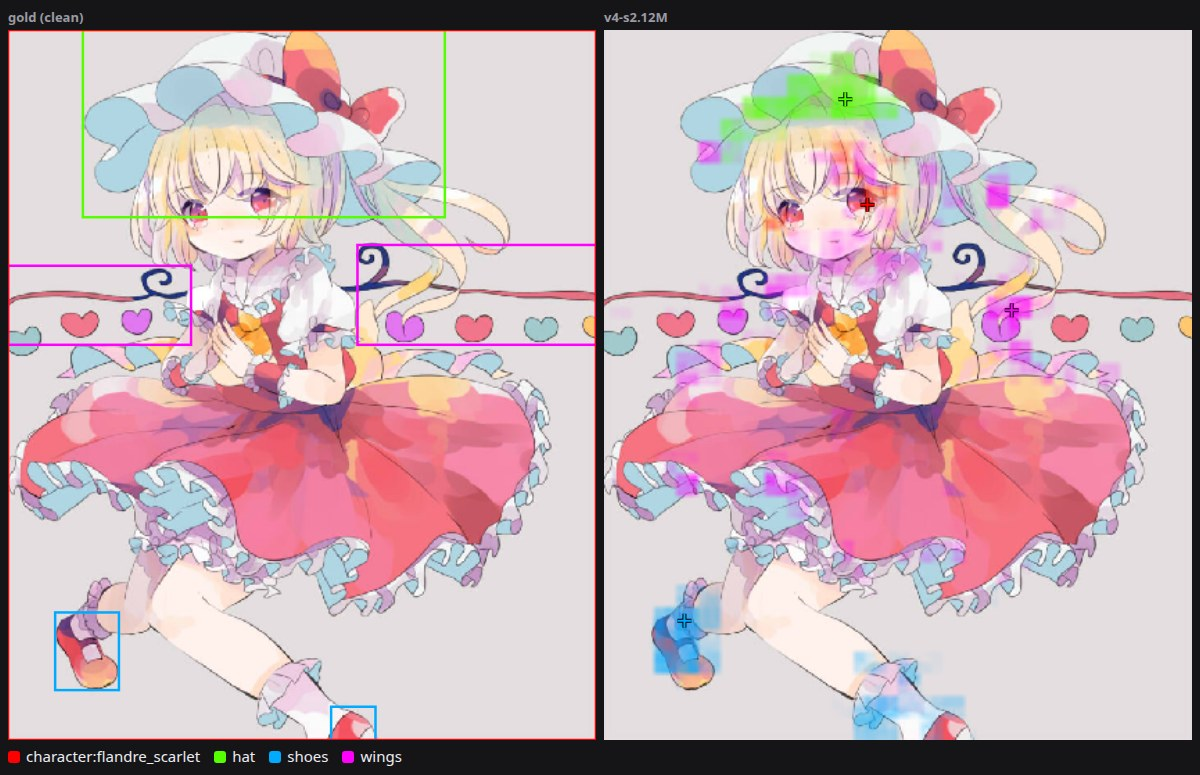
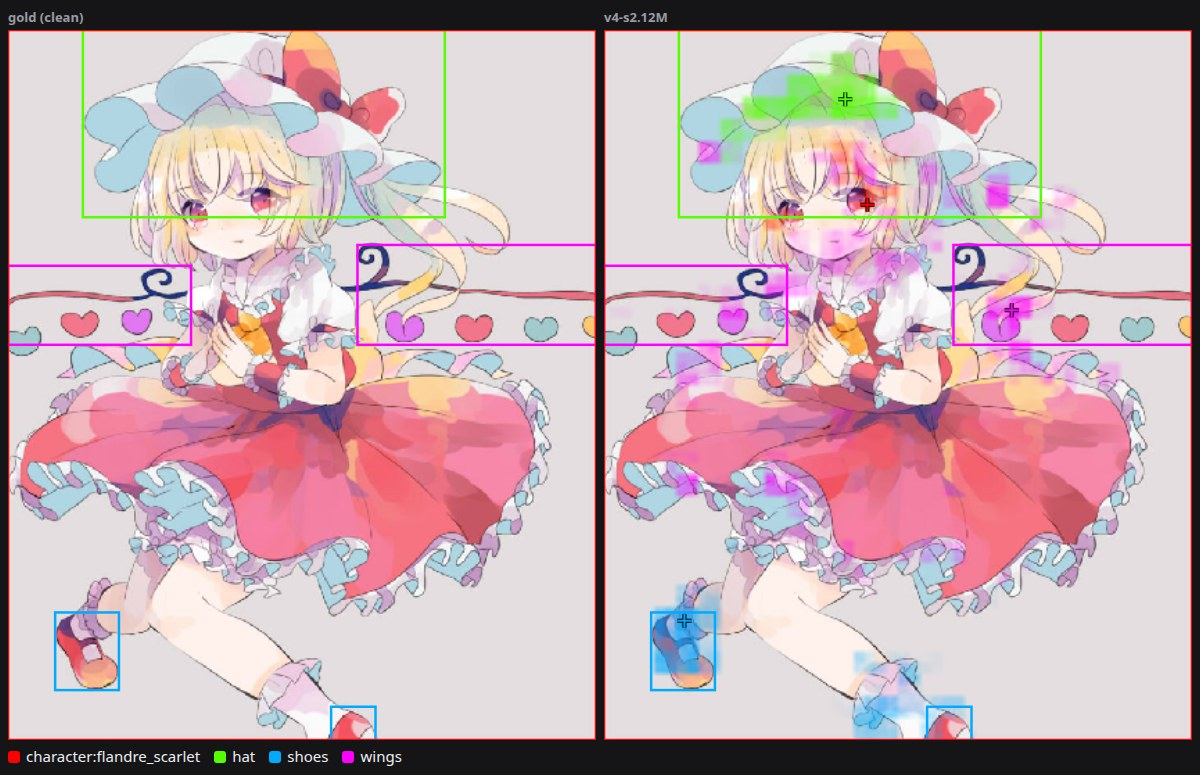
Examples: gold boxes on the model panel, overlapping heatmaps blended

diff --git a/docs/EXAMPLES.md b/docs/EXAMPLES.md
@@ -2,11 +2,12 @@
 
 Twelve images from the hand-checked gold set, scored by run 4 at step 2.12M (`model-v4-s2.12M`, the first hours of
 mixed-scale training). Left: the gold boxes (solid: certain, dashed: unsure, dotted: a group). Right: the model's heatmap
-for each of the image's gold tags, drawn over the image.
+for each of the image's gold tags, drawn over the image, with the same gold boxes on top.
 
 How to read them:
 
-- **Each tag has its own hue**, the same in both panels, spread over the spectrum in name order.
+- **Each tag has its own hue**, the same in both panels, spread over the spectrum in name order. Where two tags' maps overlap,
+  their hues mix by strength (blush over glasses reads yellow-green).
 - **Opacity is the tag's evidence near its peak:** a cell is opaque at the tag's highest log-odds and clear 4 log-odds below
   it. This is the band `detect` now cuts its boxes from (see below).
 - **+ marks each tag's peak.** Pointing (does the peak land in a gold box?) is the headline localization number in the

diff --git a/README.md b/README.md
@@ -18,7 +18,8 @@ ONNX Runtime, from one command-line tool. There is no Python in the repository.
 ### Example
 
 Run 4's model on one image from the hand-checked gold set: the gold boxes (left) and the model's heatmap for each of
-the image's tags (right; one hue per tag, opaque at its strongest evidence, + at its peak). The gold set mostly overlaps
+the image's tags (right; one hue per tag, opaque at its strongest evidence and mixed where tags overlap, + at its peak, the
+gold boxes on top). The gold set mostly overlaps
 run 4's training split, so this shows what the output looks like, not held-out accuracy. Artwork by **hiyuu (hiyualice)**
 ([Danbooru post 6776791](https://danbooru.donmai.us/posts/6776791)). Twelve more, failures included:
 [docs/EXAMPLES.md](docs/EXAMPLES.md).
